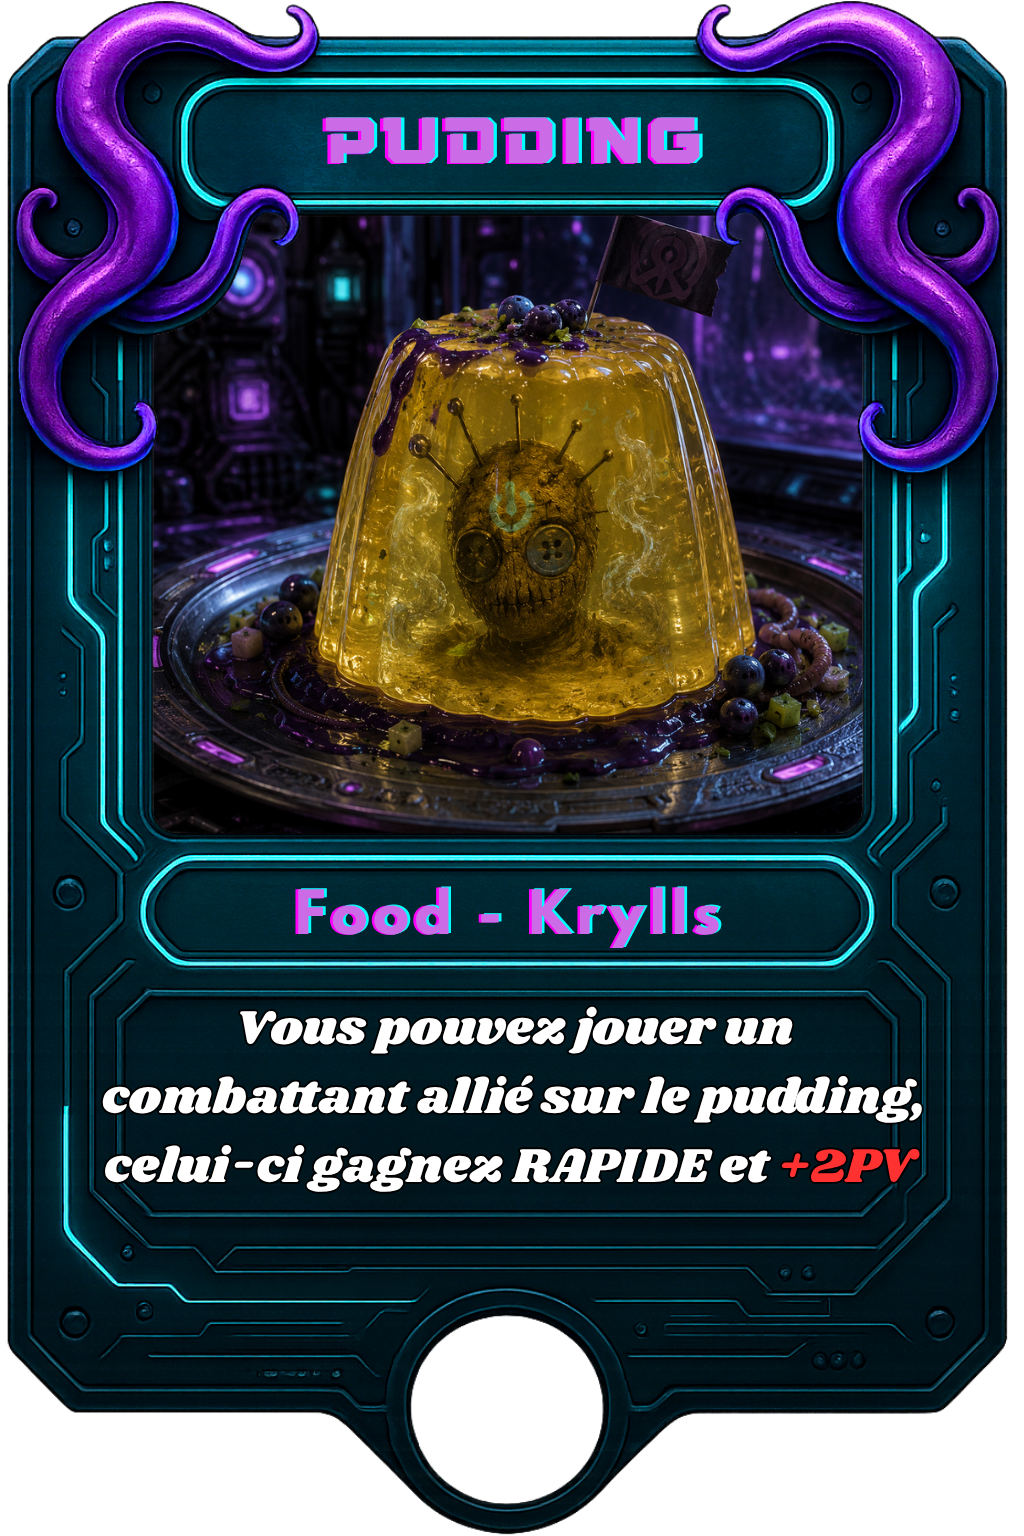
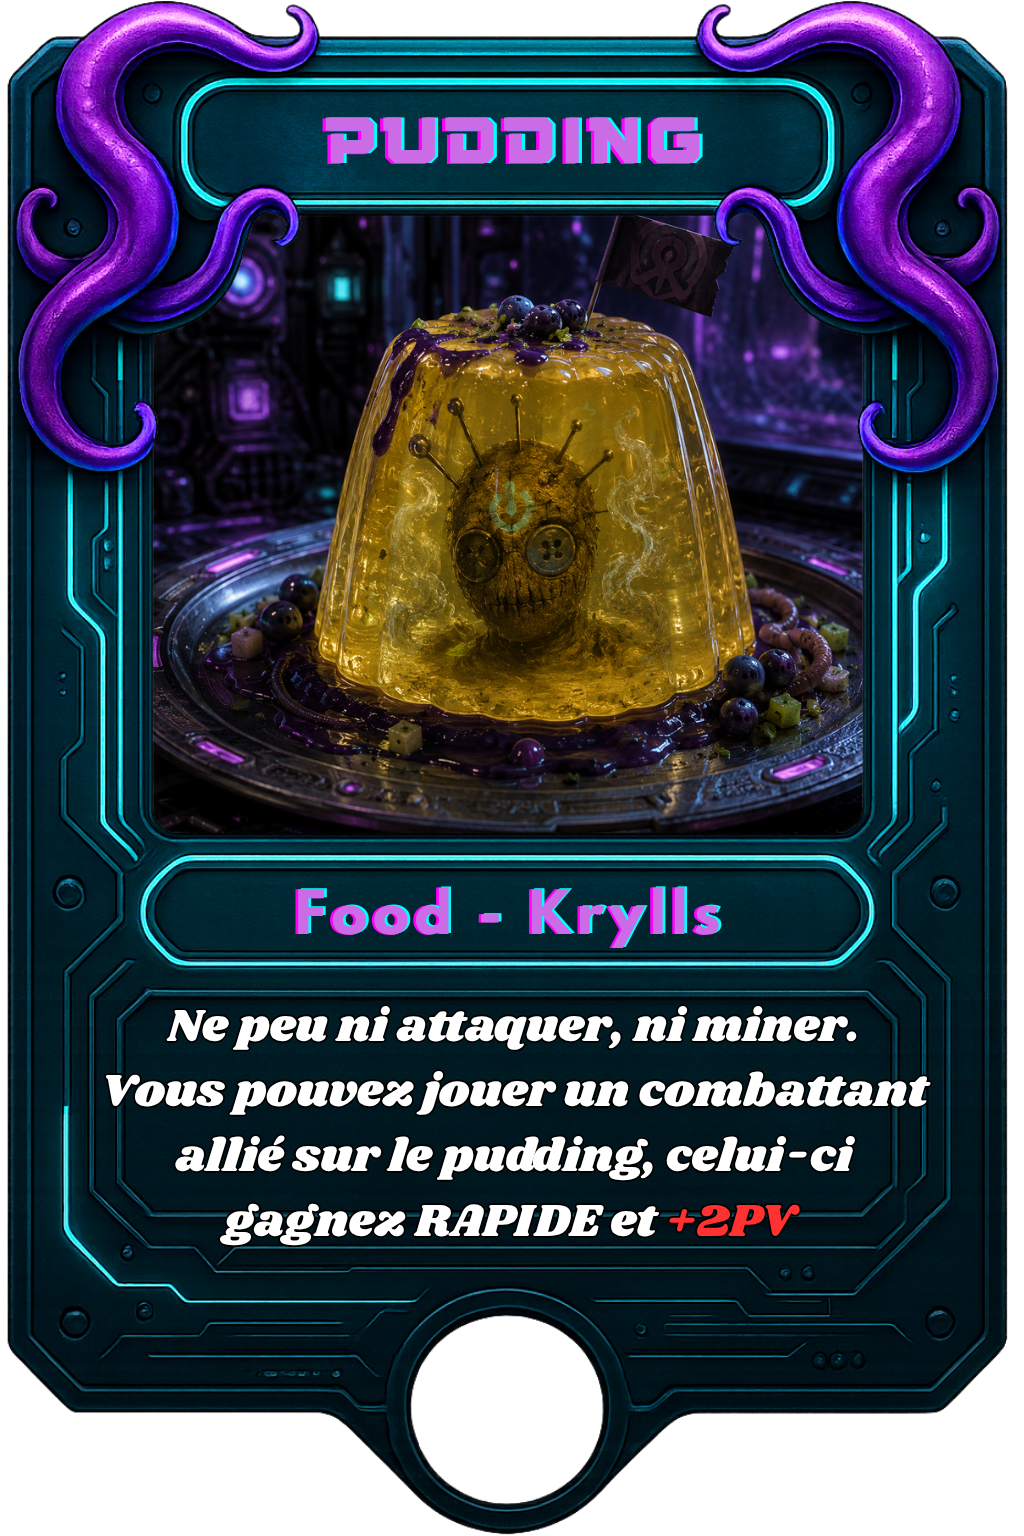
Kabbanimation

Changed region(s): [[0.0938, 0.6562, 0.9062, 0.8125]]

diff --git a/public/index.html b/public/index.html
@@ -1063,6 +1063,54 @@
     }
     .krouzpierResultText.show{ opacity:1; transform:translateY(0); }
 
+    /* Kabba le zunt → Pudding : 12 secondes de résistance puis transformation */
+    .kabbaTransformOverlay{
+      position:fixed; inset:0; z-index:8000; display:flex; align-items:center; justify-content:center;
+      background:rgba(3,7,11,.9); opacity:0; transition:opacity .5s ease;
+    }
+    .kabbaTransformOverlay.show{ opacity:1; }
+    .kabbaStage{ display:flex; flex-direction:column; align-items:center; gap:20px; }
+    .kabbaCaption{
+      font-family:'Cinzel',serif; font-size:16px; color:#e8fdff; text-shadow:0 0 14px rgba(0,230,255,.4);
+      min-height:22px; text-align:center;
+    }
+    .kabbaCardStage{
+      position:relative; width:min(60vw,240px); height:min(84vw,336px);
+      transition:transform .15s ease;
+    }
+    .kabbaImg{
+      position:absolute; inset:0; width:100%; height:100%; object-fit:contain;
+      filter:drop-shadow(0 14px 30px rgba(0,0,0,.65));
+      transition:opacity .12s linear;
+    }
+    .kabbaCardStage.kabbaStruggling{ animation:kabbaStruggleShake 0.45s ease-in-out infinite, kabbaStrugglePull 7s ease-in forwards; }
+    @keyframes kabbaStruggleShake{
+      0%,100%{ transform:translateX(0) rotate(0deg); }
+      20%{ transform:translateX(-9px) rotate(-4deg); }
+      40%{ transform:translateX(7px) rotate(3deg); }
+      60%{ transform:translateX(-6px) rotate(-3deg); }
+      80%{ transform:translateX(5px) rotate(2deg); }
+    }
+    @keyframes kabbaStrugglePull{
+      0%{ filter:drop-shadow(0 14px 30px rgba(0,0,0,.65)) hue-rotate(0deg); }
+      60%{ filter:drop-shadow(0 14px 30px rgba(160,20,200,.35)) hue-rotate(20deg); }
+      100%{ filter:drop-shadow(0 14px 40px rgba(160,20,200,.6)) hue-rotate(40deg); }
+    }
+    .kabbaCardStage.kabbaZoomPulse{ animation:kabbaZoomPulseKeyframes .3s ease; }
+    @keyframes kabbaZoomPulseKeyframes{
+      0%{ transform:scale(1); }
+      45%{ transform:scale(1.22); }
+      100%{ transform:scale(1); }
+    }
+    .kabbaCardStage.kabbaLanded{
+      animation:kabbaLandKeyframes .5s cubic-bezier(.2,.8,.25,1.3);
+    }
+    @keyframes kabbaLandKeyframes{
+      0%{ transform:scale(1.3); }
+      60%{ transform:scale(.92); }
+      100%{ transform:scale(1); }
+    }
+
     /* Célébration de changement de rang de Menace — vrai logo, rayons de
        lumière tournants, confettis (promotion), effet de brillance. */
     .rankChangeOverlay{
@@ -12879,18 +12927,100 @@ function useMineEMI(owner, card) {
 // KRYLLS : Kabba le zunt (C28) — transforme le combattant adverse choisi en
 // Pudding (T10, 1 PV), placé dans la zone de combat DU LANCEUR (vol + downgrade).
 function transformIntoPudding(targetOwner, targetCard, casterOwner){
-  const targetLine = getLineByOwner(targetOwner);
-  const idx = targetLine.findIndex(c => c.id === targetCard.id);
-  if (idx === -1) { closeActionPrompt(); return; }
-  targetLine.splice(idx, 1);
-  detachFamiliarsOnHost(targetCard, targetOwner);
-  const casterLine = getLineByOwner(casterOwner);
-  const pudding = createCard('T10', casterOwner === 'top' ? 'T' : 'B');
-  pudding.hp = 1;
-  casterLine.push(pudding);
-  pushHistory('action', `${cardAnchor('C28')} transforme ${cardAnchor(targetCard.label)} en ${cardAnchor('T10')} (1 PV) dans votre zone de combat !`);
   closeActionPrompt();
-  fullRender();
+  playKabbaTransformAnimation(targetCard, () => {
+    const targetLine = getLineByOwner(targetOwner);
+    const idx = targetLine.findIndex(c => c.id === targetCard.id);
+    if (idx === -1) return;
+    targetLine.splice(idx, 1);
+    detachFamiliarsOnHost(targetCard, targetOwner);
+    const casterLine = getLineByOwner(casterOwner);
+    const pudding = createCard('T10', casterOwner === 'top' ? 'T' : 'B');
+    pudding.hp = 1;
+    // Le Pudding hérite du Mithril que la créature transformée avait capturé
+    // — un petit malus pour celui qui transforme, mais logique : la créature
+    // garde ce qu'elle possédait avant sa métamorphose.
+    if (typeof targetCard.capturedMithril === 'number' && targetCard.capturedMithril > 0) {
+      pudding.capturedMithril = targetCard.capturedMithril;
+    }
+    casterLine.push(pudding);
+    pushHistory('action', `${cardAnchor('C28')} transforme ${cardAnchor(targetCard.label)} en ${cardAnchor('T10')} (1 PV) dans
+      votre zone de combat !${pudding.capturedMithril ? ` Le Pudding conserve ${pudding.capturedMithril} Mithril capturé.` : ''}`);
+    fullRender();
+  });
+}
+
+// Animation de 12 secondes : la créature ciblée semble résister avant d'être
+// happée par la transformation en Pudding — tremble et se débat, puis
+// alterne en fondu/zoom entre son image d'origine et celle du Pudding,
+// de plus en plus vite, jusqu'à se figer en Pudding.
+function playKabbaTransformAnimation(targetCard, onDone){
+  try{
+    const overlay = document.createElement('div');
+    overlay.className = 'kabbaTransformOverlay';
+    overlay.innerHTML = `
+      <div class="kabbaStage">
+        <div class="kabbaCaption" id="kabbaCaption">${cardName(targetCard.label)} résiste…</div>
+        <div class="kabbaCardStage" id="kabbaCardStage">
+          <img class="kabbaImg kabbaOriginalImg" id="kabbaOriginalImg" src="${getCardImage(targetCard.label)}" alt="${cardName(targetCard.label)}">
+          <img class="kabbaImg kabbaPuddingImg" id="kabbaPuddingImg" src="${getCardImage('T10')}" alt="Pudding" style="opacity:0;">
+        </div>
+      </div>
+    `;
+    document.body.appendChild(overlay);
+    requestAnimationFrame(()=> overlay.classList.add('show'));
+
+    // Son joué dès le tout début des 12 secondes.
+    try{
+      const sfx = new Audio('/assets/nopudding.mp3');
+      sfx.volume = 0.85;
+      sfx.play().catch(()=>{});
+    }catch(e){}
+
+    const stage = document.getElementById('kabbaCardStage');
+    const origImg = document.getElementById('kabbaOriginalImg');
+    const puddingImg = document.getElementById('kabbaPuddingImg');
+    const captionEl = document.getElementById('kabbaCaption');
+
+    // Phase 1 (0 → 7s) : la créature se débat, tirée peu à peu vers le
+    // Pudding qu'elle va devenir — tremblements + résistance visible.
+    stage.classList.add('kabbaStruggling');
+    setTimeout(()=>{ if (captionEl) captionEl.textContent = 'La transformation commence à opérer…'; }, 4000);
+
+    // Phase 2 (7s → 11.6s) : alternance de plus en plus rapide entre les deux
+    // images, avec zoom/dézoom, jusqu'à se stabiliser en Pudding.
+    setTimeout(()=>{
+      stage.classList.remove('kabbaStruggling');
+      if (captionEl) captionEl.textContent = 'Pouf !';
+      const swapDelays = [420, 380, 340, 300, 260, 220, 180, 150, 120, 100, 90];
+      let step = 0;
+      let showingPudding = false;
+      function nextSwap(){
+        showingPudding = !showingPudding;
+        origImg.style.opacity = showingPudding ? '0' : '1';
+        puddingImg.style.opacity = showingPudding ? '1' : '0';
+        stage.classList.remove('kabbaZoomPulse'); void stage.offsetWidth; stage.classList.add('kabbaZoomPulse');
+        step++;
+        if (step < swapDelays.length) {
+          setTimeout(nextSwap, swapDelays[step]);
+        } else {
+          // Réglage final : Pudding reste affiché, dernier zoom d'atterrissage.
+          origImg.style.opacity = '0';
+          puddingImg.style.opacity = '1';
+          stage.classList.add('kabbaLanded');
+          if (captionEl) captionEl.textContent = 'Transformé en Pudding !';
+        }
+      }
+      setTimeout(nextSwap, swapDelays[0]);
+    }, 7000);
+
+    // Fin des 12 secondes : fermeture de l'écran, puis on applique le
+    // vrai changement d'état du jeu.
+    setTimeout(()=>{
+      overlay.classList.remove('show');
+      setTimeout(()=>{ if (overlay.parentNode) overlay.remove(); onDone(); }, 400);
+    }, 12000);
+  }catch(e){ onDone(); }
 }
 
 // === WADOO : Barbatruk (C211) ===